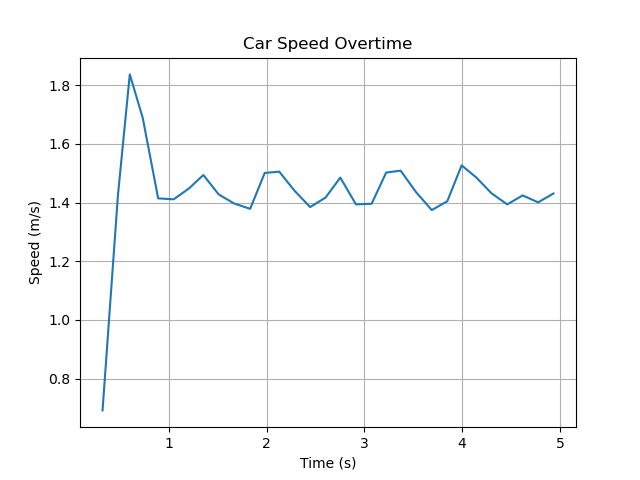
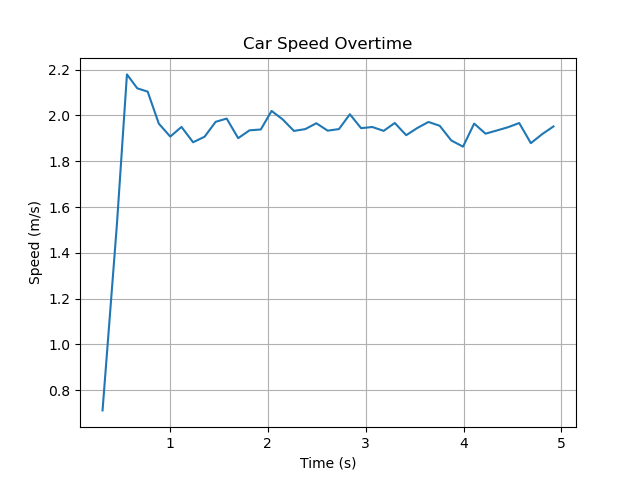
kp

diff --git a/pidControl.py b/pidControl.py
@@ -56,7 +56,6 @@ def Motor_Speed(pca,percent):
 
 def calc_dc(speed):
    dc = (speed+7.26)/72.1
-   print(dc)
    return dc
 
 def get_error(curr_speed, target_speed, acc_error, dt):
@@ -107,8 +106,9 @@ while time.time() - start_time < run_time:
         speeds.append(curr_speed)
         times.append(new_magnet_time-start_time)
         error, acc_error, d_error = get_error(curr_speed, input_speed, acc_error, dt)
+        print(error)
         newSpeed = PIDControl(Kp, Ki, Kd, error, acc_error, d_error)
-        newDC = calc_dc(newSpeed)
+        newDC = calc_dc(curr_speed+newSpeed)
         Motor_Speed(pca, newDC)
         prev_magnet_time = new_magnet_time
     last_pin_val = curr_pin_val
